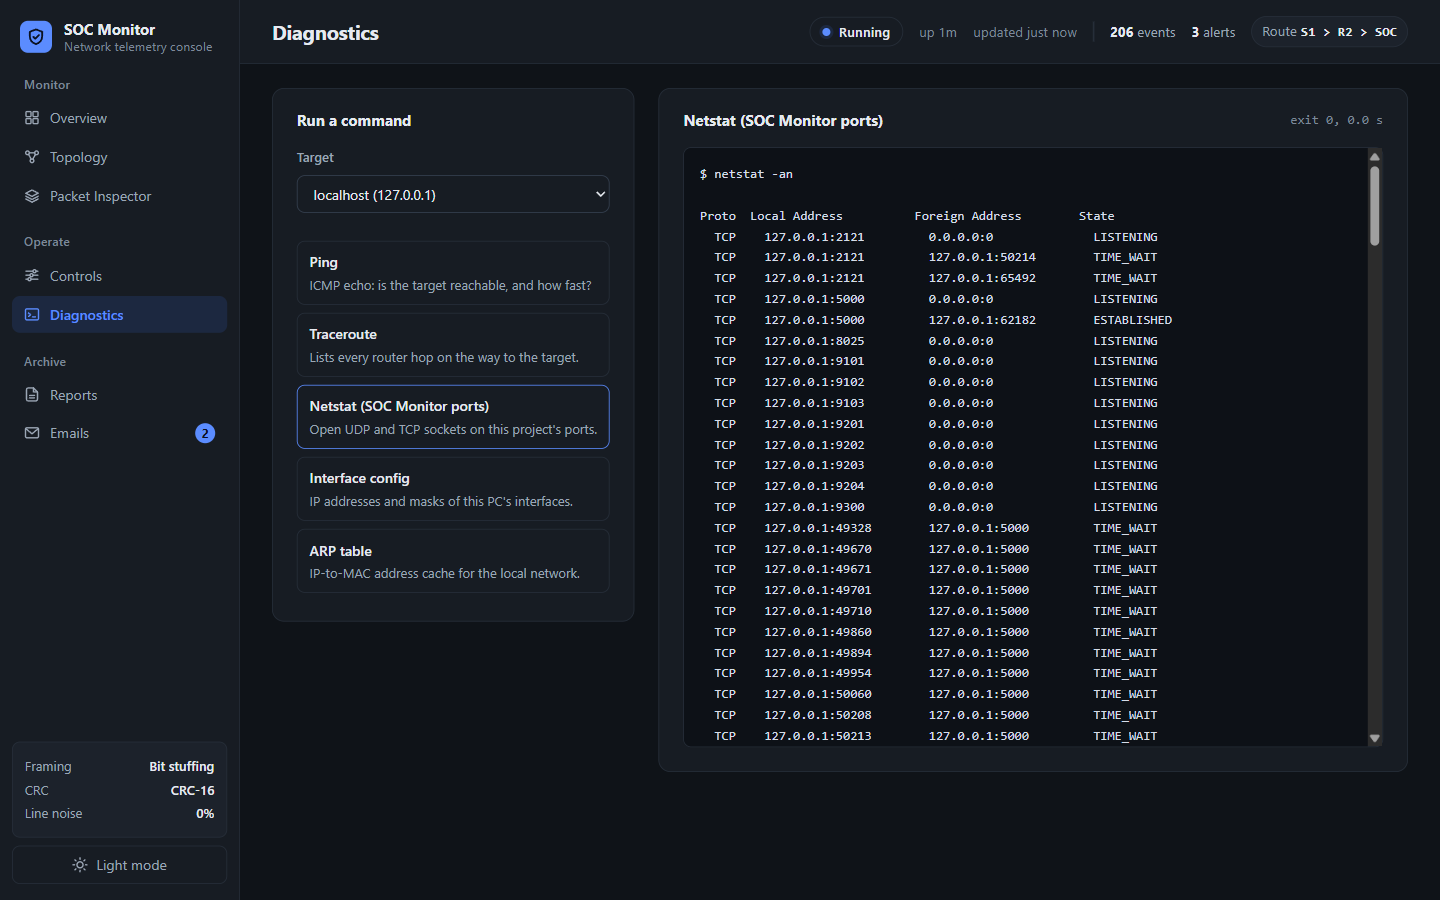
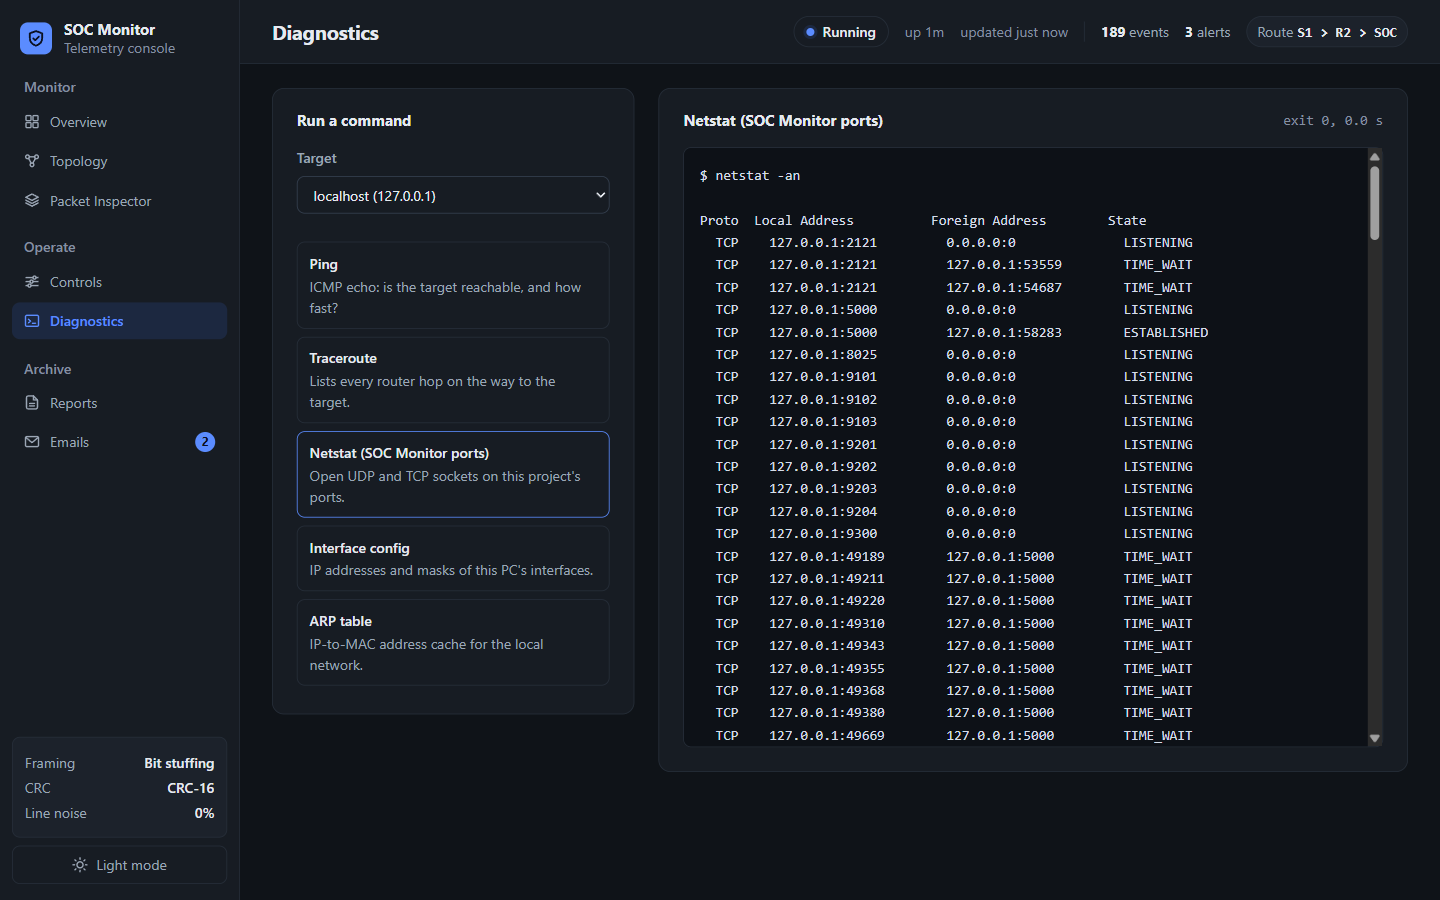
Accessibility: faint text >= 4.5:1, reading text >= 14px, roomier topology nodes

diff --git a/dashboard/static/style.css b/dashboard/static/style.css
@@ -11,7 +11,7 @@
   --border-strong: #cfd5de;
   --text: #161d29;
   --text-muted: #566172;
-  --text-faint: #7a8494;
+  --text-faint: #636d7d; /* >= 4.6:1 on every light surface */
   --accent: #2357d4;
   --accent-hover: #1d4bb8;
   --accent-soft: #e9effc;
@@ -44,7 +44,7 @@
   --border-strong: #354050;
   --text: #e6eaf0;
   --text-muted: #9ba6b5;
-  --text-faint: #7d8898;
+  --text-faint: #8590a1; /* >= 4.5:1 on every dark surface */
   --accent: #5b8cff;
   --accent-hover: #7aa2ff;
   --accent-soft: #1c2840;
@@ -165,7 +165,7 @@ input {
 
 .brand-sub {
   color: var(--text-faint);
-  font-size: 12.5px;
+  font-size: 14px;
 }
 
 .nav {
@@ -178,7 +178,7 @@ input {
   margin: 16px 0 4px;
   padding: 0 12px;
   color: var(--text-faint);
-  font-size: 12.5px;
+  font-size: 14px;
   font-weight: 500;
 }
 
@@ -242,7 +242,7 @@ input {
   border: 1px solid var(--border);
   border-radius: var(--radius-control);
   background: var(--surface-muted);
-  font-size: 13px;
+  font-size: 14px;
 }
 
 .link-info div {
@@ -310,7 +310,7 @@ input {
   align-items: center;
   gap: 16px;
   color: var(--text-muted);
-  font-size: 13.5px;
+  font-size: 14px;
   white-space: nowrap;
 }
 
@@ -431,7 +431,7 @@ input {
 
 .card-meta {
   color: var(--text-faint);
-  font-size: 13px;
+  font-size: 14px;
 }
 
 .card-actions {
@@ -508,7 +508,7 @@ input {
 
 .tile-label {
   color: var(--text-muted);
-  font-size: 13.5px;
+  font-size: 14px;
 }
 
 .tile-value {
@@ -531,7 +531,7 @@ input {
   overflow: hidden;
   text-overflow: ellipsis;
   color: var(--text-faint);
-  font-size: 13px;
+  font-size: 14px;
   white-space: nowrap;
   font-variant-numeric: tabular-nums;
 }
@@ -595,7 +595,7 @@ input {
   border-radius: 999px;
   background: var(--surface);
   color: var(--text-muted);
-  font-size: 13px;
+  font-size: 14px;
   cursor: pointer;
 }
 
@@ -697,7 +697,7 @@ input {
 
 .alert-time {
   color: var(--text-faint);
-  font-size: 13px;
+  font-size: 14px;
   font-variant-numeric: tabular-nums;
   white-space: nowrap;
 }
@@ -747,7 +747,7 @@ input {
   border-radius: var(--radius-control);
   background: var(--surface);
   box-shadow: var(--shadow-raised);
-  font-size: 13px;
+  font-size: 14px;
   pointer-events: none;
 }
 
@@ -778,7 +778,7 @@ input {
   gap: 8px 24px;
   margin-top: 12px;
   color: var(--text-muted);
-  font-size: 13px;
+  font-size: 14px;
 }
 
 .swatch {
@@ -833,7 +833,7 @@ input {
 
 .split-count {
   color: var(--text-faint);
-  font-size: 13px;
+  font-size: 14px;
   font-variant-numeric: tabular-nums;
 }
 
@@ -872,7 +872,7 @@ input {
   padding: 8px 12px;
   text-align: left;
   color: var(--text-muted);
-  font-size: 13px;
+  font-size: 14px;
   font-weight: 600;
   border-bottom: 1px solid var(--border);
   white-space: nowrap;
@@ -956,9 +956,10 @@ input {
   50% { stroke-opacity: 0.45; }
 }
 
+/* SVG text sizes are viewBox units: the diagram renders ~1.4x larger at 1440px. */
 .topo-cost {
   fill: var(--text-muted);
-  font-size: 12px;
+  font-size: 13px;
   text-anchor: middle;
 }
 
@@ -995,14 +996,14 @@ input {
 
 .topo-node .node-id {
   fill: var(--text);
-  font-size: 13.5px;
+  font-size: 14px;
   font-weight: 650;
 }
 
 .topo-node .node-ip {
   fill: var(--text-muted);
   font-family: var(--font-mono);
-  font-size: 11px;
+  font-size: 12px;
 }
 
 .topo-foot {
@@ -1031,7 +1032,7 @@ input {
   flex-wrap: wrap;
   gap: 8px 20px;
   color: var(--text-muted);
-  font-size: 13px;
+  font-size: 14px;
 }
 
 .topo-legend li {
@@ -1105,14 +1106,14 @@ input {
 
 .btn-small {
   padding: 3px 10px;
-  font-size: 13px;
+  font-size: 14px;
 }
 
 .btn-icon {
   padding: 4px 8px;
   border-color: var(--border);
   color: var(--text-muted);
-  font-size: 13px;
+  font-size: 14px;
 }
 
 .segmented {
@@ -1155,7 +1156,7 @@ input {
 
 .field-label {
   color: var(--text-muted);
-  font-size: 13px;
+  font-size: 14px;
   font-weight: 500;
 }
 
@@ -1191,7 +1192,7 @@ input {
   justify-content: space-between;
   margin-right: 64px;
   color: var(--text-faint);
-  font-size: 12.5px;
+  font-size: 14px;
   font-variant-numeric: tabular-nums;
 }
 
@@ -1220,7 +1221,7 @@ input {
 .action-desc {
   display: block;
   color: var(--text-muted);
-  font-size: 13px;
+  font-size: 14px;
 }
 
 .command-list {
@@ -1296,7 +1297,7 @@ input {
 
 .event-meta {
   color: var(--text-faint);
-  font-size: 13px;
+  font-size: 14px;
   white-space: nowrap;
   font-variant-numeric: tabular-nums;
 }
@@ -1348,7 +1349,7 @@ input {
 
 .layer-concept {
   color: var(--text-faint);
-  font-size: 13px;
+  font-size: 14px;
   text-align: right;
 }
 
@@ -1371,7 +1372,7 @@ input {
 
 .kv-compact {
   gap: 4px 16px;
-  font-size: 13.5px;
+  font-size: 14px;
 }
 
 .code {
@@ -1383,7 +1384,7 @@ input {
   background: var(--surface-sunken);
   border: 1px solid var(--border);
   font-family: var(--font-mono);
-  font-size: 13px;
+  font-size: 14px;
   line-height: 1.6;
   white-space: pre-wrap;
   overflow-wrap: anywhere;
@@ -1434,7 +1435,7 @@ input {
 
 .mail-time {
   color: var(--text-faint);
-  font-size: 13px;
+  font-size: 14px;
   white-space: nowrap;
   font-variant-numeric: tabular-nums;
 }
@@ -1442,7 +1443,7 @@ input {
 .mail-from {
   display: block;
   color: var(--text-muted);
-  font-size: 13px;
+  font-size: 14px;
 }
 
 .mail-meta {
@@ -1455,7 +1456,7 @@ input {
 .mail-body {
   margin: 0;
   font-family: var(--font-mono);
-  font-size: 13.5px;
+  font-size: 14px;
   line-height: 1.7;
   white-space: pre-wrap;
   overflow-wrap: anywhere;
@@ -1474,7 +1475,7 @@ input {
   background: #0d1117;
   color: #d5dde8;
   font-family: var(--font-mono);
-  font-size: 13px;
+  font-size: 14px;
   line-height: 1.6;
   white-space: pre-wrap;
 }

diff --git a/dashboard/static/app.js b/dashboard/static/app.js
@@ -325,7 +325,7 @@ function initAlertFilter() {
 function chartGeometry(canvas, count) {
   const width = canvas.clientWidth;
   const height = canvas.clientHeight;
-  const left = 32;
+  const left = 36;
   const bottom = height - 22;
   return { width, height, left, bottom, plotHeight: bottom - 8, slot: (width - left) / count };
 }
@@ -369,8 +369,8 @@ function drawQosChart(timeline) {
   ctx.clearRect(0, 0, geo.width, geo.height);
 
   const top = niceTop(Math.max(0, ...timeline.map((s) => s.allowed + s.dropped)));
-  const muted = cssVar("--text-faint");
-  ctx.font = `12px ${cssVar("--font-ui")}`;
+  const muted = cssVar("--text-muted");
+  ctx.font = `13px ${cssVar("--font-ui")}`;
   ctx.lineWidth = 1;
   for (const fraction of [0, 0.5, 1]) {
     const y = Math.round(geo.bottom - geo.plotHeight * fraction) + 0.5;
@@ -573,11 +573,11 @@ function drawTopology(topology) {
     const classes = ["topo-node", `role-${node.role}`];
     if (route.path.includes(node.id)) classes.push("is-route");
     const group = svg("g", { class: classes.join(" "), transform: `translate(${node.x} ${node.y})` });
-    group.appendChild(svg("rect", { x: -60, y: -24, width: 120, height: 48, rx: 8 }));
-    const glyph = svg("use", { href: `#i-${NODE_GLYPHS[node.role]}`, x: -50, y: -10, width: 20, height: 20, class: "node-glyph" });
-    const label = svg("text", { x: -24, y: -3, class: "node-id" });
+    group.appendChild(svg("rect", { x: -66, y: -25, width: 132, height: 50, rx: 8 }));
+    const glyph = svg("use", { href: `#i-${NODE_GLYPHS[node.role]}`, x: -56, y: -10, width: 20, height: 20, class: "node-glyph" });
+    const label = svg("text", { x: -28, y: -3, class: "node-id" });
     label.textContent = node.role === "sensor" ? `${node.id} ${node.name}` : node.id;
-    const ip = svg("text", { x: -24, y: 13, class: "node-ip" });
+    const ip = svg("text", { x: -28, y: 14, class: "node-ip" });
     ip.textContent = node.sim_ip;
     group.append(glyph, label, ip);
     canvas.appendChild(group);

diff --git a/dashboard/templates/index.html b/dashboard/templates/index.html
@@ -31,7 +31,7 @@
         <svg class="brand-mark" aria-hidden="true"><use href="#i-shield"/></svg>
         <div class="brand-text">
           <span class="brand-name">SOC Monitor</span>
-          <span class="brand-sub">Network telemetry console</span>
+          <span class="brand-sub">Telemetry console</span>
         </div>
       </div>
       <nav class="nav" aria-label="Sections">
@@ -150,7 +150,7 @@
                 {% endfor %}
               </div>
             </div>
-            <svg class="topology" id="topology" viewBox="24 48 752 324" role="img" aria-label="Network topology"></svg>
+            <svg class="topology" id="topology" viewBox="12 44 776 336" role="img" aria-label="Network topology"></svg>
             <div class="topo-foot">
               <p class="route-line" id="route-line">Loading topology</p>
               <ul class="topo-legend" aria-label="Legend">
